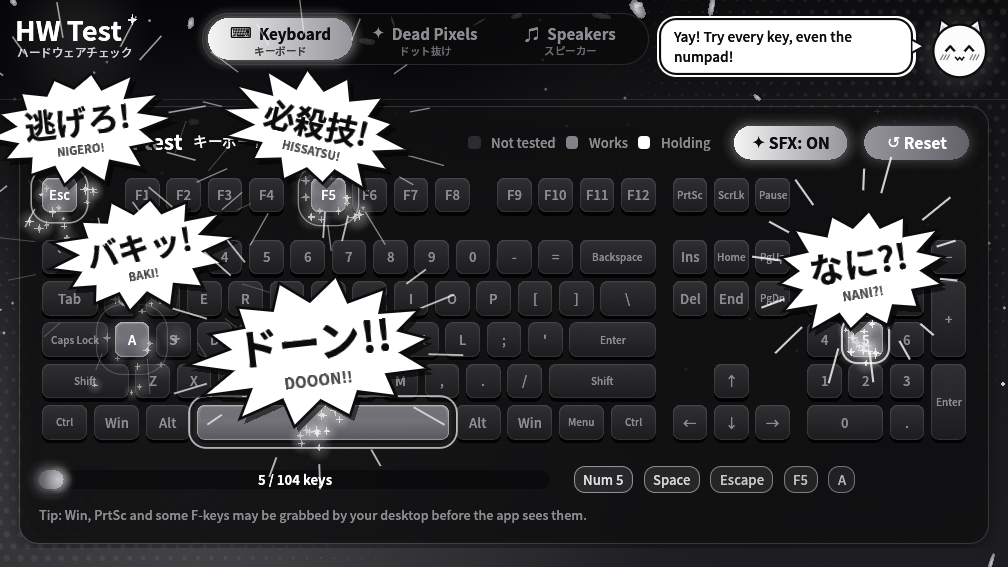
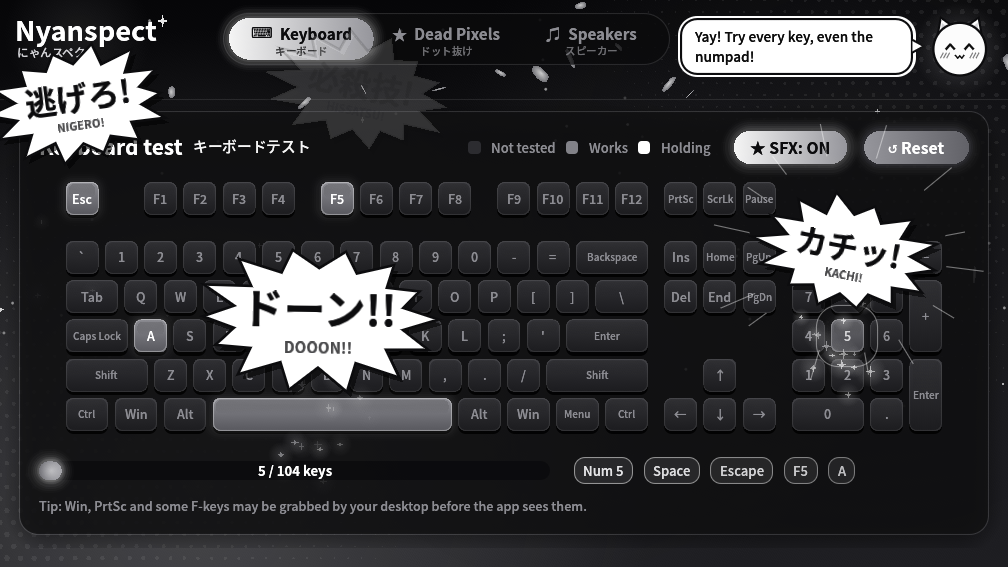
Rename HW Test to Nyanspect
Nyanspect (にゃんスペクト) = nyan (meow) + inspect. Renames the app title,
header, window/app id, binary and exe names (nyanspect.exe,
nyanspect-arm64.exe), Windows version info, error log name, dev env vars,
CI artifacts and README. New README screenshot and social preview image.
The header star now follows the title's width.

diff --git a/src/main.rs b/src/main.rs
@@ -7,7 +7,7 @@ mod sfx_audio;
 mod speakers;
 mod theme;
 
-use eframe::egui::{self, Align2, Color32, Rect, Sense, Vec2};
+use eframe::egui::{self, Align2, Color32, Pos2, Rect, Sense, Vec2};
 use eframe::{egui_wgpu, wgpu};
 use theme::alpha;
 
@@ -37,8 +37,8 @@ struct App {
 impl App {
     fn new(cc: &eframe::CreationContext) -> Self {
         let cjk = theme::setup(&cc.egui_ctx);
-        // Dev check: HWTEST_LIGHT=1 flips egui to light mode (like Windows' Light theme); the app must still look the same.
-        if std::env::var("HWTEST_LIGHT").is_ok() {
+        // Dev check: NYANSPECT_LIGHT=1 flips egui to light mode (like Windows' Light theme); the app must still look the same.
+        if std::env::var("NYANSPECT_LIGHT").is_ok() {
             cc.egui_ctx.set_theme(egui::Theme::Light);
         }
         Self {
@@ -57,17 +57,17 @@ impl App {
         ui.horizontal(|ui| {
             ui.add_space(6.0);
             // Logo with glow
-            let (r, logo) = ui.allocate_exact_size(Vec2::new(150.0, 44.0), Sense::hover());
+            let (r, logo) = ui.allocate_exact_size(Vec2::new(170.0, 44.0), Sense::hover());
             if let Some(info) = RENDERER_INFO.get() {
                 logo.on_hover_text(format!("Renderer: {info}"));
             }
             let p = ui.painter();
             let t = ui.input(|i| i.time as f32);
             theme::glow(p, r.left_center() + Vec2::new(60.0, 0.0), 70.0, alpha(theme::ACCENT, 0.12 + 0.04 * (t * 2.0).sin()));
-            p.text(r.left_center() + Vec2::new(0.0, -6.0), Align2::LEFT_CENTER, "HW Test", theme::bold(26.0), Color32::WHITE);
-            let sub = if self.cjk { "ハードウェアチェック" } else { "hardware check" };
+            let title = p.text(r.left_center() + Vec2::new(0.0, -6.0), Align2::LEFT_CENTER, "Nyanspect", theme::bold(26.0), Color32::WHITE);
+            let sub = if self.cjk { "にゃんスペクト" } else { "hardware inspector" };
             p.text(r.left_center() + Vec2::new(2.0, 15.0), Align2::LEFT_CENTER, sub, egui::FontId::proportional(11.0), theme::LIGHT);
-            theme::star(p, r.left_top() + Vec2::new(112.0, 6.0 + (t * 3.0).sin() * 2.0), 6.0, theme::GLINT);
+            theme::star(p, Pos2::new(title.right() + 6.0, r.top() + 6.0 + (t * 3.0).sin() * 2.0), 6.0, theme::GLINT);
 
             ui.add_space(18.0);
             self.tab_bar(ui);
@@ -115,9 +115,9 @@ impl App {
 }
 
 impl eframe::App for App {
-    /// Dev helper: with HWTEST_DEMO set, inject a few key presses so screenshots show the effects.
+    /// Dev helper: with NYANSPECT_DEMO set, inject a few key presses so screenshots show the effects.
     fn raw_input_hook(&mut self, _ctx: &egui::Context, raw: &mut egui::RawInput) {
-        if std::env::var("HWTEST_DEMO").is_err() {
+        if std::env::var("NYANSPECT_DEMO").is_err() {
             return;
         }
         let t = raw.time.unwrap_or(0.0);
@@ -265,14 +265,14 @@ fn run(renderer: eframe::Renderer) -> eframe::Result {
             ..Default::default()
         },
         viewport: egui::ViewportBuilder::default()
-            .with_title("HW Test")
-            .with_app_id("hwtest")
+            .with_title("Nyanspect")
+            .with_app_id("nyanspect")
             .with_inner_size([1280.0, 760.0])
             .with_min_inner_size([960.0, 600.0])
             .with_icon(eframe::icon_data::from_png_bytes(include_bytes!("../assets/icon-256.png")).expect("icon")),
         ..Default::default()
     };
-    eframe::run_native("hwtest", options, Box::new(|cc| Ok(Box::new(App::new(cc)))))
+    eframe::run_native("nyanspect", options, Box::new(|cc| Ok(Box::new(App::new(cc)))))
 }
 
 fn main() {
@@ -289,7 +289,7 @@ fn main() {
     };
 
     if force_gl {
-        fatal(&format!("HW Test could not start its graphics (OpenGL).\n\n{err}"));
+        fatal(&format!("Nyanspect could not start its graphics (OpenGL).\n\n{err}"));
         return;
     }
     // The default renderer (DirectX 12 / Vulkan via wgpu) fails on some older PCs and drivers.
@@ -297,12 +297,12 @@ fn main() {
     log_error(&format!("wgpu renderer failed: {err}\nRetrying with OpenGL (--opengl)"));
     let relaunch = std::env::current_exe().and_then(|exe| std::process::Command::new(exe).arg("--opengl").status());
     if let Err(e) = relaunch {
-        fatal(&format!("HW Test could not start its graphics.\n\n{err}\n\nRetry with OpenGL failed: {e}"));
+        fatal(&format!("Nyanspect could not start its graphics.\n\n{err}\n\nRetry with OpenGL failed: {e}"));
     }
 }
 
 fn log_path() -> std::path::PathBuf {
-    std::env::temp_dir().join("hwtest-error.log")
+    std::env::temp_dir().join("nyanspect-error.log")
 }
 
 fn log_error(msg: &str) {
@@ -325,20 +325,20 @@ fn fatal(msg: &str) {
         }
         let wide = |s: &str| s.encode_utf16().chain(Some(0)).collect::<Vec<u16>>();
         // 0x10 = MB_ICONERROR
-        unsafe { MessageBoxW(std::ptr::null_mut(), wide(&text).as_ptr(), wide("HW Test").as_ptr(), 0x10) };
+        unsafe { MessageBoxW(std::ptr::null_mut(), wide(&text).as_ptr(), wide("Nyanspect").as_ptr(), 0x10) };
     }
     #[cfg(not(windows))]
     eprintln!("{text}");
 }
 
-/// Dev helper: `HWTEST_SHOT=out.png HWTEST_TAB=0|1|2 hwtest` saves a window screenshot and exits.
+/// Dev helper: `NYANSPECT_SHOT=out.png NYANSPECT_TAB=0|1|2 nyanspect` saves a window screenshot and exits.
 fn dev_screenshot(ctx: &egui::Context, tab: &mut Tab) {
-    if let Ok(t) = std::env::var("HWTEST_TAB") {
+    if let Ok(t) = std::env::var("NYANSPECT_TAB") {
         *tab = TABS[t.parse::<usize>().unwrap_or(0).min(2)].0;
     }
-    let Ok(path) = std::env::var("HWTEST_SHOT") else { return };
+    let Ok(path) = std::env::var("NYANSPECT_SHOT") else { return };
     let time = ctx.input(|i| i.time);
-    if std::env::var("HWTEST_MAX").is_ok() && time < 0.5 {
+    if std::env::var("NYANSPECT_MAX").is_ok() && time < 0.5 {
         ctx.send_viewport_cmd(egui::ViewportCommand::Maximized(true));
     }
     let key = egui::Id::unique("dev-shot-sent");

diff --git a/vendor/egui-winit/src/lib.rs b/vendor/egui-winit/src/lib.rs
@@ -1105,7 +1105,7 @@ impl State {
         let pressed = *state == winit::event::ElementState::Pressed;
 
         let physical_key = if let winit::keyboard::PhysicalKey::Code(keycode) = *physical_key {
-            // hwtest patch: egui has no numpad keys, so report physical numpad
+            // nyanspect patch: egui has no numpad keys, so report physical numpad
             // keys as F20..F35 (which real keyboards don't have).
             numpad_as_f_key(keycode).or_else(|| key_from_key_code(keycode))
         } else {
@@ -1128,7 +1128,7 @@ impl State {
         // are mapped to the physical keys that normally contain C, X, V, etc.
         // See also: https://github.com/emilk/egui/issues/3653
         if let Some(active_key) = logical_key.or(physical_key) {
-            if false && pressed && self.clipboard_shortcuts { // hwtest patch: report every key
+            if false && pressed && self.clipboard_shortcuts { // nyanspect patch: report every key
                 if is_cut_command(self.modifiers, active_key) {
                     self.egui_input.events.push(egui::Event::Cut);
                     return;
@@ -2679,7 +2679,7 @@ pub fn short_window_event_description(event: &winit::event::WindowEvent) -> &'st
     }
 }
 
-/// hwtest patch: map physical numpad keys to otherwise-unused F-keys.
+/// nyanspect patch: map physical numpad keys to otherwise-unused F-keys.
 fn numpad_as_f_key(key: winit::keyboard::KeyCode) -> Option<egui::Key> {
     use egui::Key::*;
     use winit::keyboard::KeyCode as K;

diff --git a/build.rs b/build.rs
@@ -4,8 +4,8 @@ fn main() {
     if std::env::var("CARGO_CFG_TARGET_OS").as_deref() == Ok("windows") {
         let mut res = winresource::WindowsResource::new();
         res.set_icon("assets/icon.ico");
-        res.set("ProductName", "HW Test");
-        res.set("FileDescription", "HW Test - keyboard, dead pixel and speaker tester");
+        res.set("ProductName", "Nyanspect");
+        res.set("FileDescription", "Nyanspect - keyboard, dead pixel and speaker tester");
         if let Err(e) = res.compile() {
             println!("cargo:warning=could not embed the Windows icon: {e}");
         }

diff --git a/README.md b/README.md
@@ -1,10 +1,10 @@
-<p align="center"><img src="assets/icon-128.png" width="96" alt="HW Test logo"></p>
+<p align="center"><img src="assets/icon-128.png" width="96" alt="Nyanspect logo"></p>
 
-<h1 align="center">HW Test</h1>
-<p align="center"><a href="https://github.com/jerryl-creator/hwtest/actions/workflows/build-windows.yml"><img src="https://github.com/jerryl-creator/hwtest/actions/workflows/build-windows.yml/badge.svg" alt="Build Windows exe"></a></p>
-<p align="center">A small, anime-styled hardware tester for <b>keyboards</b>, <b>dead pixels</b> and <b>speakers</b>.<br>Written in Rust with <a href="https://github.com/emilk/egui">egui</a>. Runs on Windows 10/11 and Linux.</p>
+<h1 align="center">Nyanspect <sub>にゃんスペクト</sub></h1>
+<p align="center"><a href="https://github.com/jerryl-creator/nyanspect/actions/workflows/build-windows.yml"><img src="https://github.com/jerryl-creator/nyanspect/actions/workflows/build-windows.yml/badge.svg" alt="Build Windows exe"></a></p>
+<p align="center"><i>nyan</i> (meow) + <i>inspect</i>: a small, anime-styled hardware tester for <b>keyboards</b>, <b>dead pixels</b> and <b>speakers</b>.<br>Written in Rust with <a href="https://github.com/emilk/egui">egui</a>. Runs on Windows 10/11 and Linux.</p>
 
-![HW Test keyboard tab](docs/screenshot.png)
+![Nyanspect keyboard tab](docs/screenshot.png)
 
 ## Features
 
@@ -28,20 +28,20 @@ Windows builds are attached to the [Releases](../../releases) page. Each is a si
 
 | Your PC | Download |
 |---|---|
-| Intel or AMD processor (most PCs) | `hwtest.exe` |
-| Snapdragon / ARM processor (Windows on ARM, e.g. Snapdragon X laptops) | `hwtest-arm64.exe` |
+| Intel or AMD processor (most PCs) | `nyanspect.exe` |
+| Snapdragon / ARM processor (Windows on ARM, e.g. Snapdragon X laptops) | `nyanspect-arm64.exe` |
 
-Not sure? Open **Settings → System → About** and check *System type*: "x64-based" means `hwtest.exe`, "ARM-based" means `hwtest-arm64.exe`.
+Not sure? Open **Settings → System → About** and check *System type*: "x64-based" means `nyanspect.exe`, "ARM-based" means `nyanspect-arm64.exe`.
 Windows may show a SmartScreen warning because the file isn't code-signed: choose **More info → Run anyway**.
 
 ## Building
 
 ### 1. Install Rust with rustup (required)
 
-HW Test supports **Windows 10/11 and Linux**. macOS isn't supported or tested.
+Nyanspect supports **Windows 10/11 and Linux**. macOS isn't supported or tested.
 
-HW Test is built with **rustup**, the official Rust installer. Use it even if your Linux distro has its own
-`rust` package: only rustup can add the Windows target needed to build `hwtest.exe`.
+Nyanspect is built with **rustup**, the official Rust installer. Use it even if your Linux distro has its own
+`rust` package: only rustup can add the Windows target needed to build `nyanspect.exe`.
 
 **Linux**
 
@@ -76,7 +76,7 @@ Install the ALSA development headers (used for sound):
 
 ```bash
 cargo build --release
-./target/release/hwtest
+./target/release/nyanspect
 ```
 
 ### 3. Build the Windows `.exe` from Linux
@@ -94,19 +94,19 @@ rustup target add x86_64-pc-windows-gnu
 | Fedora | `sudo dnf install mingw64-gcc` |
 
 ```bash
-./build-windows.sh        # writes dist/hwtest.exe
+./build-windows.sh        # writes dist/nyanspect.exe
 ```
 
 The script checks for rustup, the Windows target and MinGW first, and tells you how to install anything that's missing.
 
-On Windows itself, `cargo build --release` should also work and writes `target\release\hwtest.exe`
+On Windows itself, `cargo build --release` should also work and writes `target\release\nyanspect.exe`
 (this route isn't covered by CI).
 
 ### Automatic builds (GitHub Actions)
 
 [`.github/workflows/build-windows.yml`](.github/workflows/build-windows.yml) builds both Windows versions on every push and
 pull request: x64 by running `build-windows.sh` on Linux, and ARM64 natively on a Windows 11 ARM machine.
-Download them from the run's **Artifacts** section (`hwtest-windows` and `hwtest-windows-arm64`).
+Download them from the run's **Artifacts** section (`nyanspect-windows` and `nyanspect-windows-arm64`).
 Pushing a version tag also attaches both exes to that release:
 
 ```bash
@@ -116,16 +116,16 @@ git push origin v1.1.0
 
 ## Graphics compatibility
 
-HW Test prefers the integrated GPU (it doesn't need a discrete one, which saves battery on laptops) and uses DirectX 12 on Windows or Vulkan on Linux.
+Nyanspect prefers the integrated GPU (it doesn't need a discrete one, which saves battery on laptops) and uses DirectX 12 on Windows or Vulkan on Linux.
 If that fails it restarts itself with OpenGL (`--opengl`), and if there's no usable GPU driver it falls back to a software renderer.
-Startup errors are shown in a dialog and saved to `hwtest-error.log` in the temp folder.
+Startup errors are shown in a dialog and saved to `nyanspect-error.log` in the temp folder.
 
 ## Notes
 
-- `vendor/egui-winit` is a lightly patched copy of [egui-winit](https://github.com/emilk/egui) 0.37 (MIT OR Apache-2.0), used so the app can tell numpad keys apart from the main keys. See [vendor/egui-winit/HWTEST_PATCH.md](vendor/egui-winit/HWTEST_PATCH.md).
+- `vendor/egui-winit` is a lightly patched copy of [egui-winit](https://github.com/emilk/egui) 0.37 (MIT OR Apache-2.0), used so the app can tell numpad keys apart from the main keys. See [vendor/egui-winit/NYANSPECT_PATCH.md](vendor/egui-winit/NYANSPECT_PATCH.md).
 - Japanese labels use a font already on the system (Noto Sans CJK on Linux, Yu Gothic or Meiryo on Windows). Without one, they are simply hidden.
 
 ## License
 
-HW Test is released under the [MIT License](LICENSE).
+Nyanspect is released under the [MIT License](LICENSE).
 The patched copy of egui-winit in `vendor/egui-winit` keeps its original MIT OR Apache-2.0 license.

diff --git a/vendor/egui-winit/NYANSPECT_PATCH.md b/vendor/egui-winit/NYANSPECT_PATCH.md
@@ -3,7 +3,7 @@
 This is a copy of [egui-winit](https://github.com/emilk/egui/tree/main/crates/egui-winit) 0.37.0
 (license: MIT OR Apache-2.0), used through `[patch.crates-io]` in the top-level `Cargo.toml`.
 
-Two small changes in `src/lib.rs`, both marked `hwtest patch`:
+Two small changes in `src/lib.rs`, both marked `nyanspect patch`:
 
 1. **Numpad keys.** egui has no separate numpad keys (Numpad1 is reported as Num1, and NumpadEnter as Enter).
    The *physical* key of numpad presses is reported as F20–F35 instead, which real keyboards don't have
